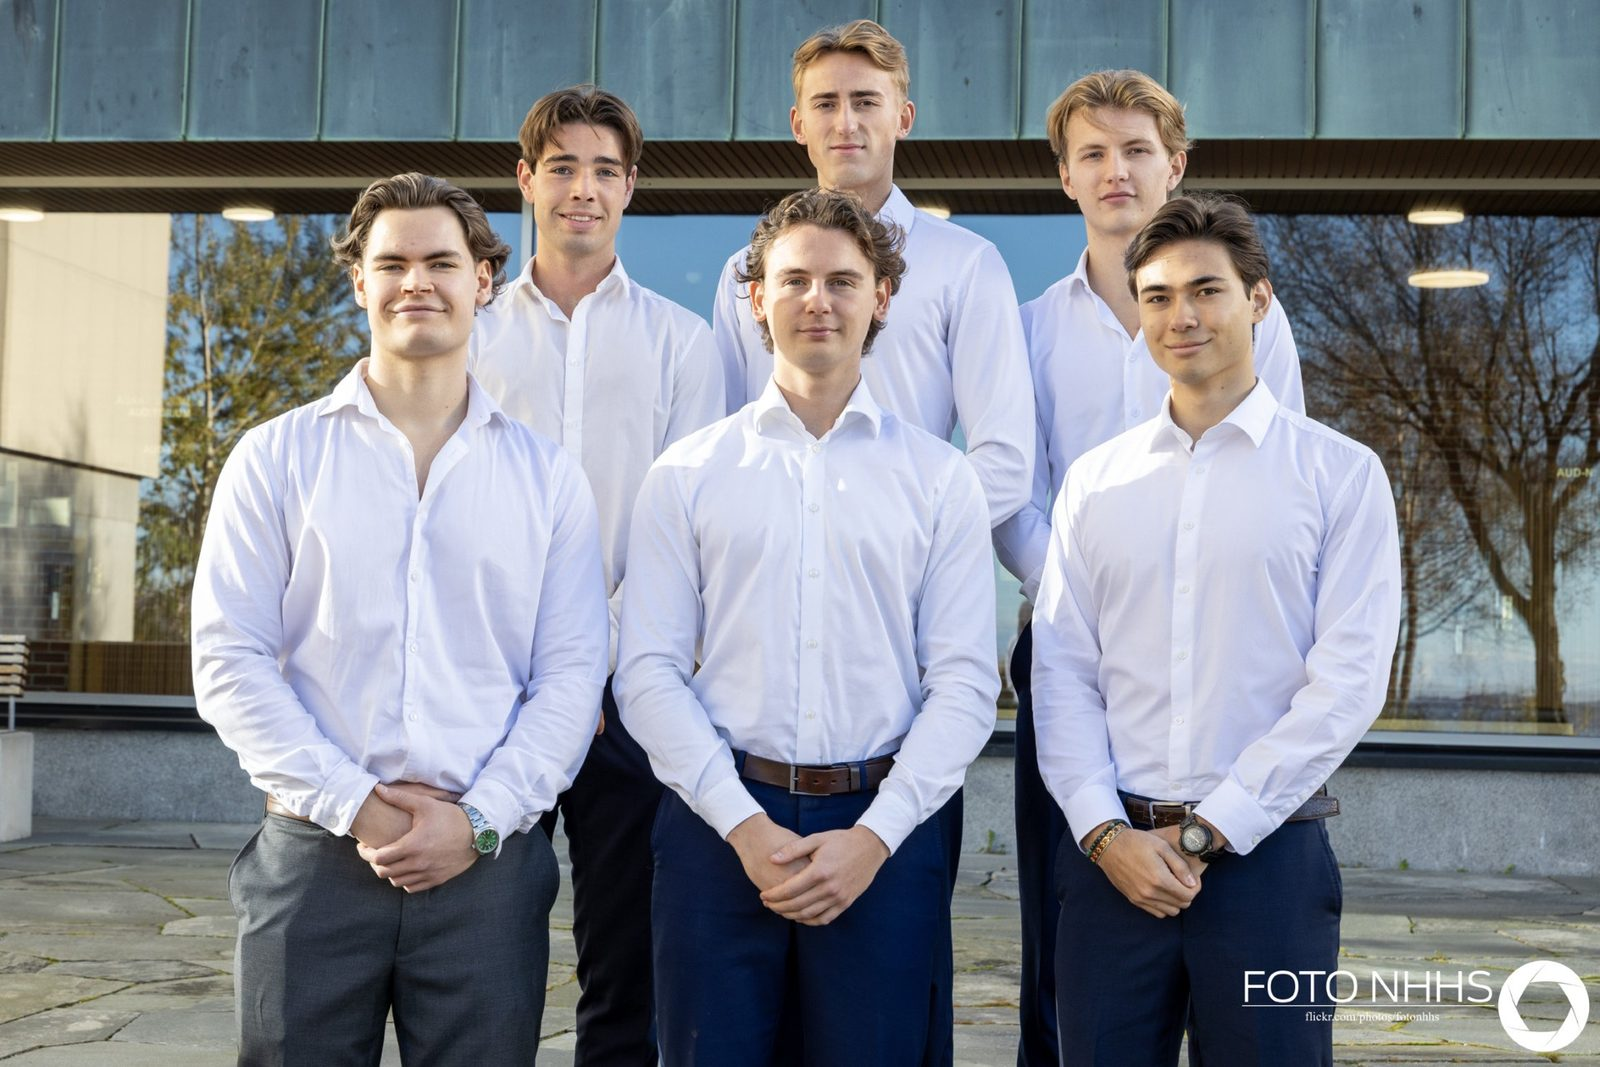
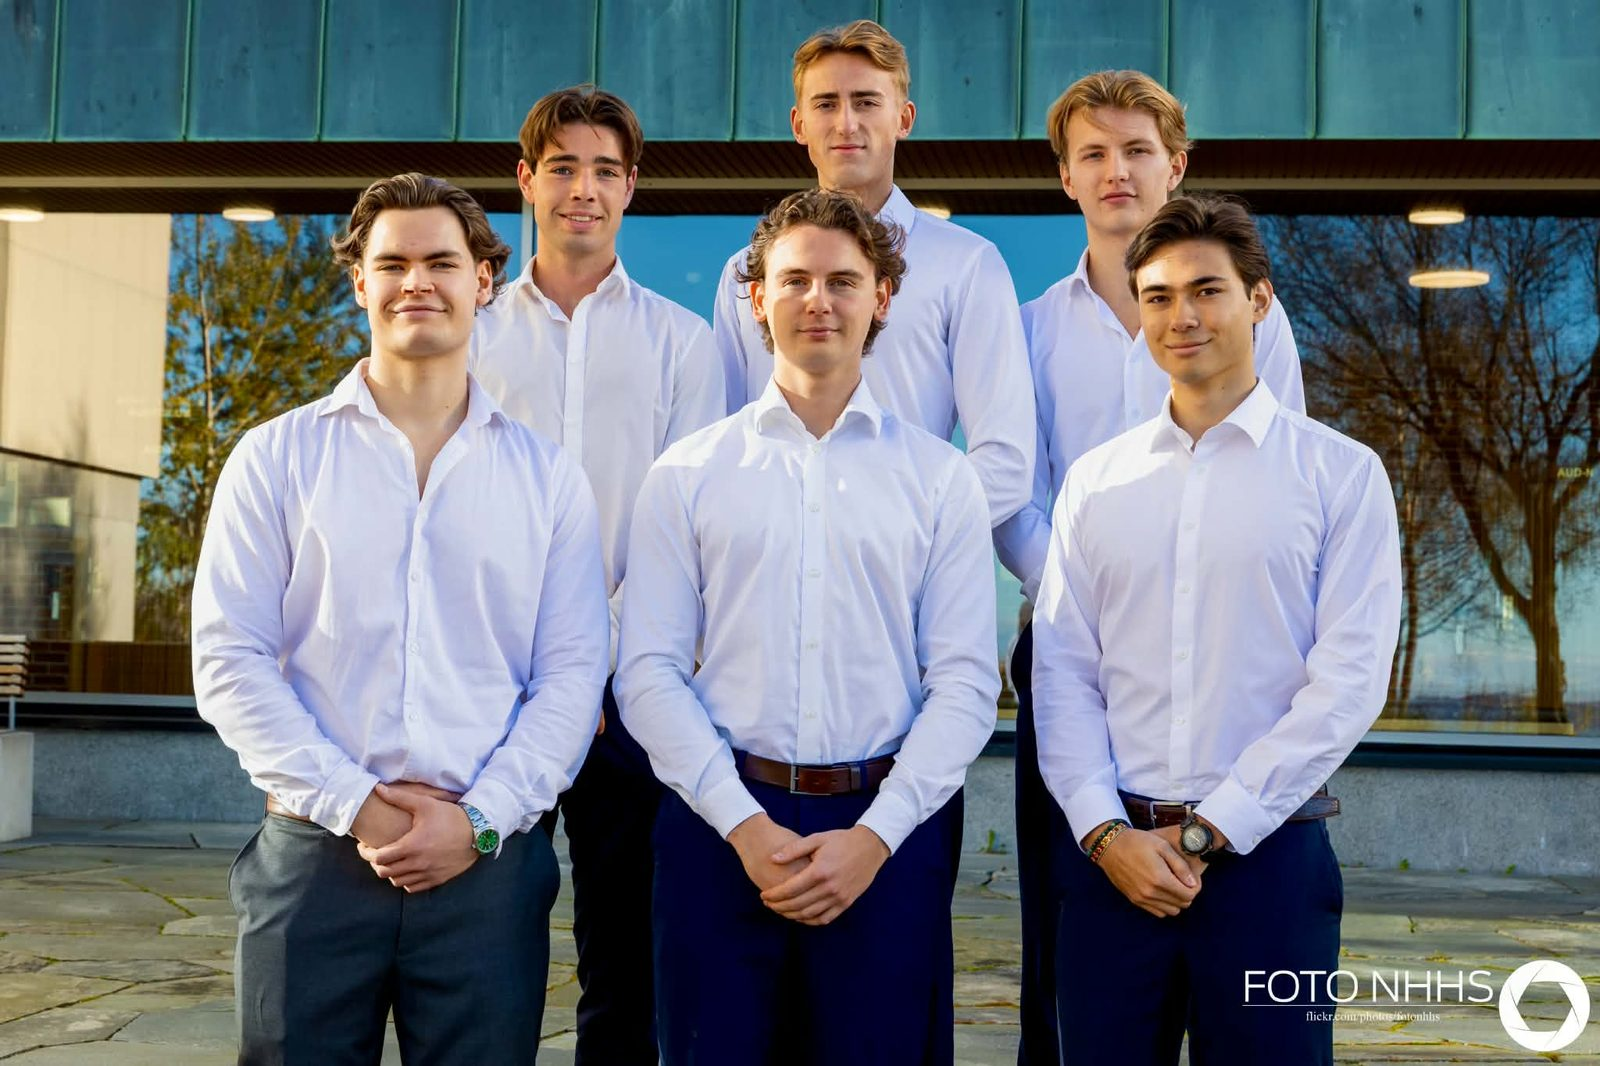
Bytt styrebildet på forsiden
Claude-Session: https://claude.ai/code/session_01YS5aA665KthHPXia8h8NY1

diff --git a/public/index.html b/public/index.html
@@ -132,7 +132,7 @@ a:hover{color:#7E2F1E}
     <h2 style="font-family:var(--nhhs-head, 'Helvetica Neue', Helvetica, Arial),sans-serif;flex:1 1 240px;margin:0;font-weight:700;font-size:clamp(28px,2.8vw,38px);line-height:1.15;letter-spacing:-.01em">Styret</h2>
     <div style="flex:3 1 480px;max-width:720px">
       <figure style="margin:0 0 32px">
-        <img src="assets/styret.jpg" alt="Styret i NHHS AI foran NHH" width="1600" height="1067" loading="lazy" decoding="async" style="display:block;width:100%;height:auto;aspect-ratio:3/2;object-fit:cover;background:#E3CDAA;border-radius:4px">
+        <img src="assets/styret.jpg?v=2" alt="Styret i NHHS AI foran NHH" width="1600" height="1067" loading="lazy" decoding="async" style="display:block;width:100%;height:auto;aspect-ratio:3/2;object-fit:cover;background:#E3CDAA;border-radius:4px">
         <figcaption style="margin-top:8px;font-size:13px;color:#5A3F30">Foto: Foto NHHS</figcaption>
       </figure>
       <div style="display:grid;grid-template-columns:repeat(auto-fit,minmax(min(100%,300px),1fr));column-gap:32px">
